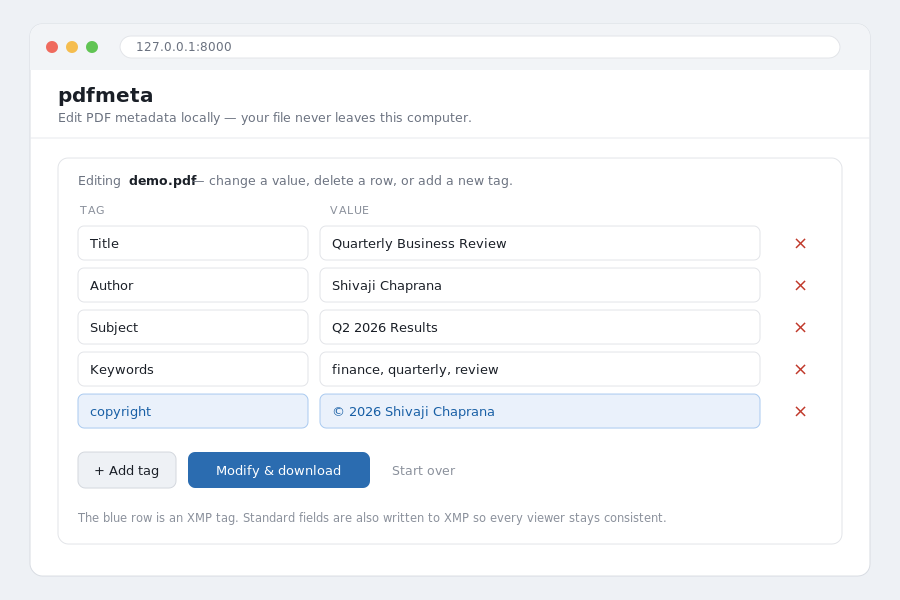
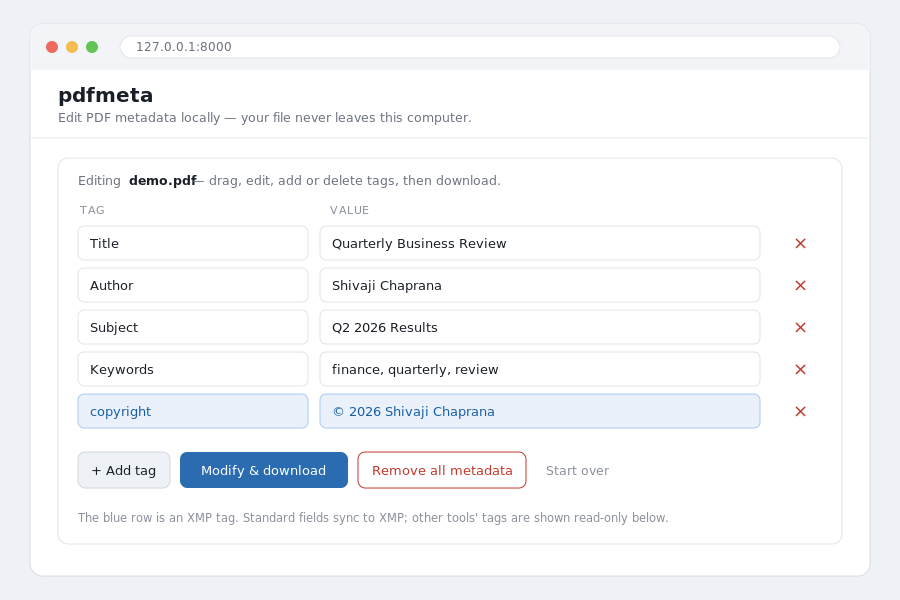
GUI polish: dark mode, focus styles, submit feedback; refreshed screenshot

Changed region(s): [[0.1244, 0.75, 0.7467, 0.87], [0.2489, 0.27, 0.56, 0.33], [0.6222, 0.78, 0.6844, 0.81]]

diff --git a/src/pdfmeta/webapp.py b/src/pdfmeta/webapp.py
@@ -104,43 +104,60 @@ _PAGE = """<!doctype html>
 <meta name="viewport" content="width=device-width, initial-scale=1">
 <title>pdfmeta — PDF metadata editor</title>
 <style>
-  :root { --line:#e2e4e8; --brand:#2b6cb0; --bg:#f7f8fa; --danger:#c0392b; }
+  :root {
+    --line:#e2e4e8; --brand:#2b6cb0; --bg:#f7f8fa; --danger:#c0392b;
+    --card:#ffffff; --text:#1a1f27; --muted:#6b7280; --input-bg:#ffffff;
+    --ghost-bg:#eef1f5; --code-bg:#eef1f5; --drop-over:#f0f6ff;
+    --flash-bg:#fdecea; --flash-border:#f5c6cb;
+  }
+  @media (prefers-color-scheme: dark) {
+    :root {
+      --line:#3a3f47; --brand:#5b9bd5; --bg:#14171c; --danger:#e57367;
+      --card:#1e222a; --text:#e6e8eb; --muted:#9aa1ac; --input-bg:#252a33;
+      --ghost-bg:#2a2f38; --code-bg:#2a2f38; --drop-over:#1f2937;
+      --flash-bg:#3a2320; --flash-border:#5c332e;
+    }
+  }
   * { box-sizing: border-box; }
   body { font-family: -apple-system, Segoe UI, Roboto, Helvetica, Arial, sans-serif;
-         margin: 0; background: var(--bg); color: #1a1f27; }
-  header { background: #fff; border-bottom: 1px solid var(--line); padding: 18px 24px; }
+         margin: 0; background: var(--bg); color: var(--text); }
+  header { background: var(--card); border-bottom: 1px solid var(--line); padding: 18px 24px; }
   header h1 { margin: 0; font-size: 20px; }
-  header p { margin: 4px 0 0; color: #6b7280; font-size: 13px; }
+  header p { margin: 4px 0 0; color: var(--muted); font-size: 13px; }
   main { max-width: 820px; margin: 28px auto; padding: 0 20px; }
-  .card { background: #fff; border: 1px solid var(--line); border-radius: 10px;
+  .card { background: var(--card); border: 1px solid var(--line); border-radius: 10px;
           padding: 22px; margin-bottom: 20px; }
   .drop { display: block; text-align: center; padding: 38px 30px; border: 2px dashed var(--line);
           border-radius: 10px; cursor: pointer; transition: background .12s, border-color .12s; }
-  .drop:hover { border-color: #b9c0ca; }
-  .drop.over { border-color: var(--brand); background: #f0f6ff; }
+  .drop:hover { border-color: var(--brand); }
+  .drop.over { border-color: var(--brand); background: var(--drop-over); }
   .drop-emoji { font-size: 26px; }
   .visually-hidden { position: absolute; width: 1px; height: 1px; padding: 0;
           margin: -1px; overflow: hidden; clip: rect(0 0 0 0); border: 0; }
-  input[type=text] { width: 100%; padding: 8px 10px; border: 1px solid var(--line);
-                     border-radius: 6px; font-size: 14px; }
+  input[type=text], input[type=file] { width: 100%; padding: 8px 10px;
+          border: 1px solid var(--line); border-radius: 6px; font-size: 14px;
+          background: var(--input-bg); color: var(--text); }
   table { width: 100%; border-collapse: collapse; }
   th { text-align: left; font-size: 12px; text-transform: uppercase;
-       letter-spacing: .04em; color: #6b7280; padding: 6px 8px; }
+       letter-spacing: .04em; color: var(--muted); padding: 6px 8px; }
   td { padding: 5px 8px; vertical-align: middle; }
   td.k { width: 34%; } td.x { width: 42px; text-align: center; }
-  .btn { border: 0; border-radius: 7px; padding: 10px 16px; font-size: 14px;
-         cursor: pointer; }
+  .btn { border: 0; border-radius: 7px; padding: 10px 16px; font-size: 14px; cursor: pointer; }
   .btn.primary { background: var(--brand); color: #fff; }
-  .btn.ghost { background: #eef1f5; color: #1a1f27; }
+  .btn.ghost { background: var(--ghost-bg); color: var(--text); }
   .btn.del { background: transparent; color: var(--danger); font-size: 18px;
              line-height: 1; padding: 4px 8px; }
-  .btn.danger { background: transparent; color: var(--danger); border: 1px solid #e6b3ad; }
-  .btn.danger:hover { background: #fdecea; }
-  .row-actions { display: flex; gap: 10px; margin-top: 16px; align-items: center; }
-  .flash { background: #fdecea; color: var(--danger); border: 1px solid #f5c6cb;
+  .btn.danger { background: transparent; color: var(--danger); border: 1px solid var(--danger); }
+  .btn.danger:hover { background: var(--flash-bg); }
+  .btn:disabled { opacity: .6; cursor: default; }
+  .row-actions { display: flex; gap: 10px; margin-top: 16px; align-items: center; flex-wrap: wrap; }
+  .flash { background: var(--flash-bg); color: var(--danger); border: 1px solid var(--flash-border);
            padding: 10px 14px; border-radius: 8px; margin-bottom: 16px; }
-  .muted { color: #6b7280; font-size: 13px; }
-  code { background: #eef1f5; padding: 1px 5px; border-radius: 4px; }
+  .muted { color: var(--muted); font-size: 13px; }
+  code { background: var(--code-bg); padding: 1px 5px; border-radius: 4px; }
+  a { color: var(--brand); }
+  a:focus-visible, button:focus-visible, input:focus-visible,
+  .drop:focus-within { outline: 2px solid var(--brand); outline-offset: 2px; }
 </style>
 </head>
 <body>
@@ -301,6 +318,16 @@ _PAGE = """<!doctype html>
     });
     input.addEventListener('change', function () { show(); form.submit(); });
   })();
+
+  // Prevent double-submits and give feedback while a download is prepared.
+  document.addEventListener('submit', function (e) {
+    var b = e.submitter;
+    if (!b || b.type !== 'submit') return;
+    var label = b.textContent;
+    b.disabled = true;
+    b.textContent = 'Working…';
+    setTimeout(function () { b.disabled = false; b.textContent = label; }, 4000);
+  });
 </script>
 </body>
 </html>

diff --git a/tests/test_webapp.py b/tests/test_webapp.py
@@ -79,6 +79,12 @@ def test_index_shows_upload_form(client):
     assert b"Drag a PDF here" in resp.data
 
 
+def test_page_has_dark_mode_and_a11y(client):
+    html = client.get("/").data.decode()
+    assert "prefers-color-scheme: dark" in html  # adapts to system dark mode
+    assert "focus-visible" in html  # keyboard focus styles
+
+
 def test_gui_shows_and_edits_xmp_field(client, tmp_path):
     data = _pdf_with_copyright(tmp_path)
     resp = client.post(

diff --git a/CHANGELOG.md b/CHANGELOG.md
@@ -19,6 +19,8 @@ adheres to [Semantic Versioning](https://semver.org/spec/v2.0.0.html).
 - The browser GUI gained: drag-and-drop upload, a one-click "Remove all
   metadata" button, a read-only view of other tools' XMP tags (nothing hidden),
   and a batch mode to tag many PDFs at once and download them as a zip.
+- GUI polish: automatic dark mode, keyboard focus styles, and button feedback
+  that prevents double-submits.
 - Property-based tests (Hypothesis) fuzzing the date parser and the metadata
   round-trip.
 - Developer tooling and quality gates: Ruff (lint + format), strict mypy
